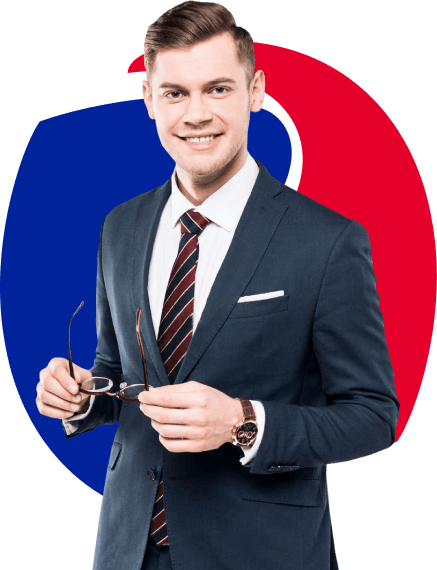
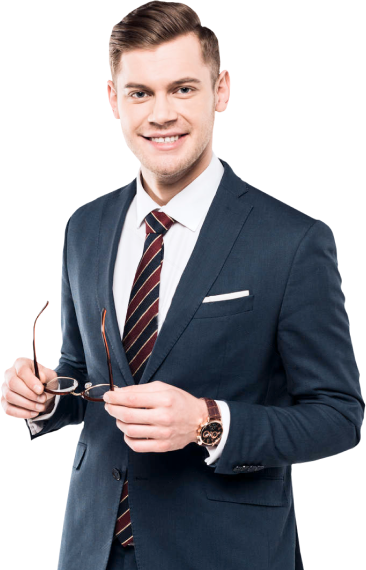
about-page refactoring

diff --git a/src/assets/scss/blocks/company-contacts.scss b/src/assets/scss/blocks/company-contacts.scss
@@ -6,9 +6,7 @@
     position: relative;
     overflow: hidden;
 
-    &__container {
-        display: flex;
-    }
+    &__container { display: flex }
 
     &__map {
         position: absolute;
@@ -73,9 +71,7 @@
 
                 line-height: 160%;
 
-                @media (max-width: 992px) { 
-                    max-width: 300px;
-                }
+                @media (max-width: 992px) { max-width: 300px }
             }
 
             a {
@@ -90,6 +86,7 @@
                     &::after { color: $lightBlack }
                 }
             }
+            
             .phone {
                 font-size: 1em;
                 font-weight: 700;
@@ -112,9 +109,7 @@
                 font-size: 0.9em;
             }
 
-            &:not(:last-child) {
-                margin-bottom: 1.25em;
-            }
+            &:not(:last-child) { margin-bottom: 1.25em }
 
             @media (max-width: 400px) { 
                 &:not(:last-child) { margin-bottom: 15px }
@@ -126,9 +121,7 @@
             border: 0.05em solid $spanishRed;
             padding: 0.8em 3.1em;
 
-            &:hover {
-                color: $spanishRed;
-            }
+            &:hover { color: $spanishRed }
         }
 
         @media (max-width: 992px) { 
@@ -140,9 +133,7 @@
             padding: 3em;
             margin: 0 auto;
 
-            h1 {
-                font-size: 1.9em;
-            }
+            h1 { font-size: 1.9em }
         }
 
         @media (max-width: 400px) { 
@@ -156,11 +147,12 @@
                 justify-content: center;
             }
             .phone { font-size: 1.1em }
-            span { font-size: 10; }
+            span {
+                font-size: 10px;
+                margin-bottom: 3px;
+            }
         } 
     }
 
-    @media (max-width: 768px) { 
-        padding: 10em 0 4em;
-    }
+    @media (max-width: 768px) { padding: 10em 0 4em }
 }

diff --git a/src/about.html b/src/about.html
@@ -82,7 +82,13 @@ title: Europe Assistance | About Company
                 <span>Связаться с нами</span>
             </a>
         </div>
-        <img class="about-benefits__picture lozad" data-src="./assets/images/about-worker.png" data-srcset="./assets/images/about-worker.png" alt="">
+        <div class="about-benefits__picture">
+            <img class="lozad" data-src="./assets/images/about-worker.png" data-srcset="./assets/images/about-worker.png" alt="">
+            <svg width="437" height="485" viewBox="0 0 437 485" fill="none" xmlns="http://www.w3.org/2000/svg">
+                <path d="M397.066 401.561C414.562 377.106 449.554 277.54 432.059 181.468C416.312 85.396 351.579 10.2852 246.607 1.55143C199.367 -3.68886 157.378 5.04499 138.134 17.2723C138.134 17.2723 127.637 24.2593 127.637 32.993C127.637 32.993 236.108 17.2723 281.597 66.1816C321.837 109.851 292.094 162.253 292.094 162.253C274.599 197.189 232.61 239.112 232.61 239.112C232.61 239.112 176.624 293.262 159.128 324.702C150.381 340.424 145.132 356.144 145.132 370.119C145.132 399.814 166.127 412.041 173.125 413.787C232.61 441.736 349.829 419.028 397.066 401.561Z" fill="#E4002B"/>
+                <path d="M39.7591 81.5464C22.2638 106.064 -12.7272 205.886 4.76825 302.206C20.5141 398.526 85.2474 473.829 190.221 482.586C237.459 487.84 279.448 479.084 298.692 466.826C298.692 466.826 309.19 459.82 309.19 451.063C309.19 451.063 200.718 466.826 155.229 417.79C114.99 374.008 144.732 321.47 144.732 321.47C162.227 286.445 204.216 244.415 204.216 244.415C204.216 244.415 260.202 190.125 277.698 158.602C286.445 142.841 291.695 127.079 291.695 113.069C291.695 83.2979 270.699 71.0389 263.701 69.2877C204.216 41.2675 86.9971 64.0338 39.7591 81.5464Z" fill="#00239C"/>
+            </svg>
+        </div>
     </div>
 </section>
 

diff --git a/src/assets/scss/blocks/about-benefits.scss b/src/assets/scss/blocks/about-benefits.scss
@@ -9,12 +9,15 @@
     }
 
     @media (max-width: 575px) {
-        padding: 115vw 0 4em;
-        padding-bottom: 50px;
+        padding: 115vw 0 50px;
+    }
+
+    @media (max-width: 450px) {
+        padding: 120vw 0 50px;
     }
 
     @media (max-width: 400px) {
-        padding-bottom: 30px;
+        padding: 120vw 0 30px;
     }
 
     &__container {
@@ -149,18 +152,42 @@
     }
 
     &__picture {
-        padding-top: 1.5em;
+        margin-top: 1.5em;
         width: 21.85em;
-        height: 100%;
+        min-height: 100%;
 
-        @media (max-width: 1230px) {
-            padding-right: 2em;
+        position: relative;
+
+        img {
+            position: absolute;
+            z-index: 10;
+
+            display: flex;
+
+            width: 80%;
+            height: 100%;
+            
+            left: 50%;
+            bottom: 0;
+            transform: translateX(-50%);
         }
+
+        svg {
+            position: absolute;
+            left: 0;
+
+            width: 100%;
+            top: 50%;
+            left: 50%;
+            transform: translate(-50%, -50%);
+        }
+
+        @media (max-width: 1230px) { margin-right: 2em }
 
         @media (max-width: 992px) {
             position: absolute;
-            padding-right: 0;
-            padding-top: 0;
+            margin-right: 0;
+            margin-top: 0;
             bottom: 100%;
 
             width: 23em;
@@ -171,6 +198,7 @@
         @media (max-width: 575px) {
             width: 85vw;
             height: 110vw;
+            min-height: 0;
         }
     }
 }

diff --git a/src/assets/scss/blocks/select-btn.scss b/src/assets/scss/blocks/select-btn.scss
@@ -52,11 +52,16 @@
             &--blog {
                 font-size: 20px;
                 padding: 0.375em 1em;
+                transition: .4s;
 
                 label { 
                     line-height: 1;
                     font-size: 0.7em;
                     display: flex;
+                }
+
+                &:hover {
+                    background-color: #f1f1f1;
                 }
             }
 

diff --git a/src/assets/scss/blocks/preview-about.scss b/src/assets/scss/blocks/preview-about.scss
@@ -115,7 +115,7 @@
                 .second-h::after { content: "странах мира" }
 
                 @media (max-width: 768px) {
-                    &:first-child { margin-right: 40% }
+                    &:first-child { margin-right: 30% }
                 }
 
                 @media (max-width: 575px) {

diff --git a/src/assets/scss/blocks/blog.scss b/src/assets/scss/blocks/blog.scss
@@ -130,8 +130,8 @@
         font-size: 16px;
         font-family: 'GothamPro', sans-serif;
         font-weight: 700;
-
-        &:hover { background-color: #fcfcfc }
+        
+        @media (min-width: 400px) { &:hover { color: $darkBlue } }
 
         @media (max-width: 400px) {
             margin-top: 15px;
